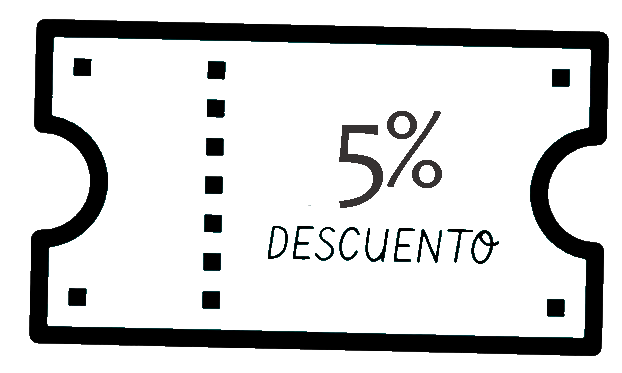
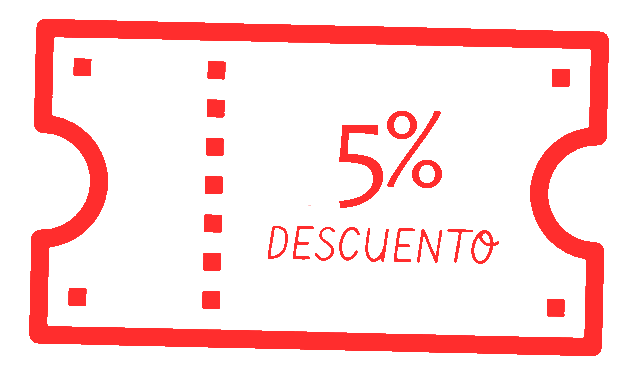
cambios fiestas patrias

diff --git a/index.html b/index.html
@@ -124,17 +124,25 @@
         </nav>
     </header>
     <!-- Banner -->
-    <div class="banner banner-cover">
-        <div class="banner-container">
-            <div class="flex flex-row items-center justify-center">
+    <div class="banner banner-cover flex items-center pl-16">
+        <div class="flex flex-col">
+            <div class="flex flex-row items-center">
                 <img src="./img/logo.png" class="h-56" alt="jpg">
-                <div class="border-l-4 border-indigo-500 w-96 h-28">
-                    <p class="playwrite text-gray-300">"¡Bienvenida a Belle Clothing! Descubre moda elegante y
-                        confortable. Estamos aquí para ayudarte a encontrar tu estilo perfecto..."</p>
+                <div class="border-l-4 border-red-500 w-96 h-28">
+                    <p class="playwrite text-gray-500">
+                        <!-- "¡Bienvenida a Belle Clothing! Descubre moda elegante y
+                        confortable. Estamos aquí para ayudarte a encontrar tu estilo perfecto..." -->
+                        Celebra la independencia del Perú con nuestras ofertas exclusivas en moda femenina. ¡Haz clic y sorpréndete!
+                    </p>
+                    <div class="mt-10 mb-10 text-center">
+                        <a href="" class="inline-block bg-red-600 text-white hover:text-white py-2 px-4 rounded mt-4 hover:bg-red-500 border-solid">
+                            Más detalles
+                        </a>
+                    </div>
                 </div>
             </div>
-            <div class="fade-in-out">
-                <svg fill="white" xmlns="http://www.w3.org/2000/svg" height="50px" viewBox="0 -960 960 960" width="50px"
+            <div class="mt-28 fade-in-out flex justify-center">
+                <svg fill="red" xmlns="http://www.w3.org/2000/svg" height="50px" viewBox="0 -960 960 960" width="50px"
                     fill="#e8eaed">
                     <path
                         d="M480-200 240-440l56-56 184 183 184-183 56 56-240 240Zm0-240L240-680l56-56 184 183 184-183 56 56-240 240Z" />
@@ -146,7 +154,7 @@
 
     <div class="flex flex-col md:flex-row items-center bg-white rounded-lg overflow-hidden">
         <!-- Mensaje izquierdo -->
-        <div class="md:w-1/3 p-6 border-e-4 border-indigo-500 text-pink-900 text-center">
+        <div class="md:w-1/3 p-6 border-e-4 border-red-500 text-gray-500 text-center">
             <h2 class="text-3xl font-bold mb-4">¡Oferta Exclusiva!</h2>
             <p class="mb-2">Comparte nuestra página con tus amigas y obtén un 5% de descuento en tu próxima compra.</p>
             <p class="mb-2">¡Moda y estilo solo para ti!</p>
@@ -156,10 +164,10 @@
             <img src="/img/descuento.png" alt="40% de descuento" class="w-full h-full object-cover">
         </div>
         <!-- Mensaje derecho -->
-        <div class="md:w-1/3 p-6 border-l-4 border-indigo-500 text-pink-900 text-center">
+        <div class="md:w-1/3 p-6 border-l-4 border-red-500 text-gray-500 text-center">
             <h2 class="text-3xl font-bold mb-4">¡Promoción Especial!</h2>
             <p class="mb-2">Si tu amiga nos contacta por WhatsApp, ambas recibirán un descuento adicional.</p>
-            <a href="https://wa.me/51925768026" class="inline-block bg-[#42c8c8] text-white hover:text-[#42c8c8] py-2 px-4 rounded mt-4 hover:bg-white border-solid border-2 border-[#42c8c8]">
+            <a href="https://wa.me/51925768026" class="inline-block bg-red-600 text-white hover:text-white py-2 px-4 rounded mt-4 hover:bg-red-500 border-solid">
                 Contáctanos por WhatsApp
             </a>
         </div>
@@ -168,7 +176,7 @@
     <div class="fixed bottom-4 right-4 text-center">
         <img class="h-24 m-0" src="/img/static.gif" alt="gif">
         <a href="#catalogo"
-            class="bg-indigo-600 m-0 hover:text-white text-white py-2 px-4 rounded-md shadow-md hover:bg-indigo-500 hover:shadow-lg transition duration-300 ease-in-out">
+            class="inline-block bg-red-600 text-white hover:text-white py-2 px-4 rounded hover:bg-red-500 border-solid">
             Catálogo
         </a>
     </div>

diff --git a/css/styles.css b/css/styles.css
@@ -799,7 +799,7 @@ footer {
 
 @media screen and (min-width: 1023px) {
     .banner-cover {
-        background:  linear-gradient(rgba(5, 7, 12, 0.5), rgba(5, 7, 12,0.5)),
+        background:  
                 url("../img/banner-large.jpg");
     background-size: cover;        /* Asegura que la imagen cubra todo el contenedor */
     background-position: center;   /* Centra la imagen */
